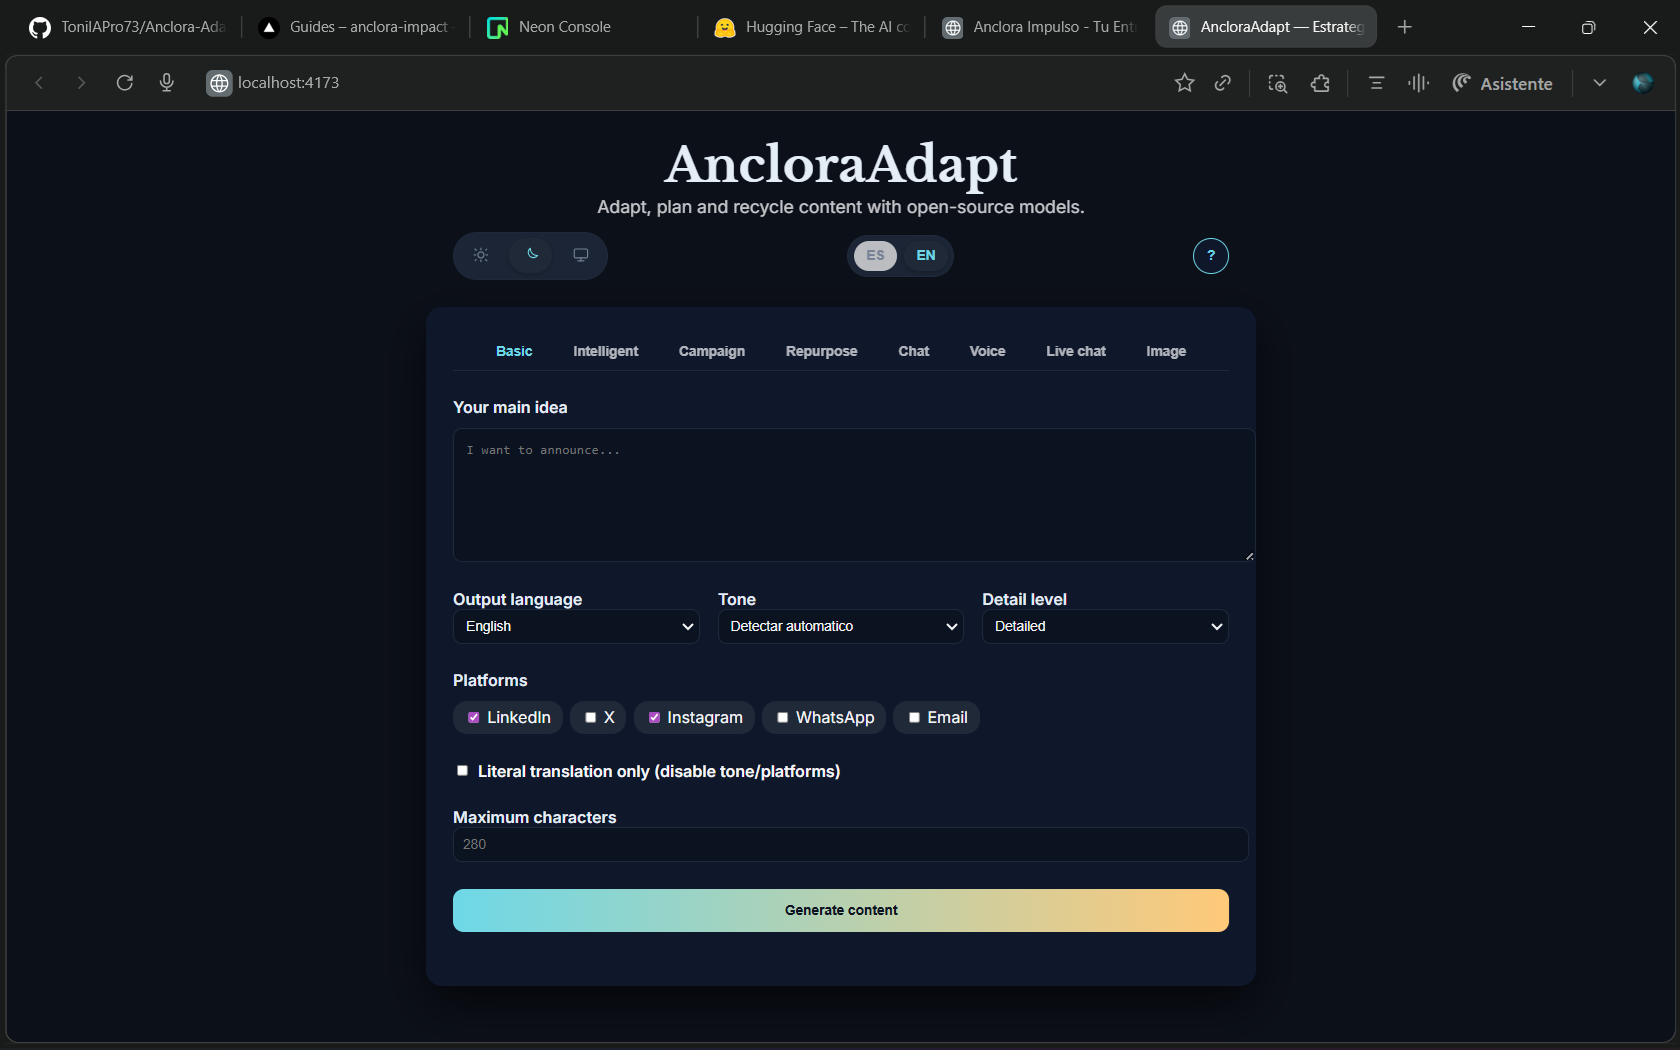
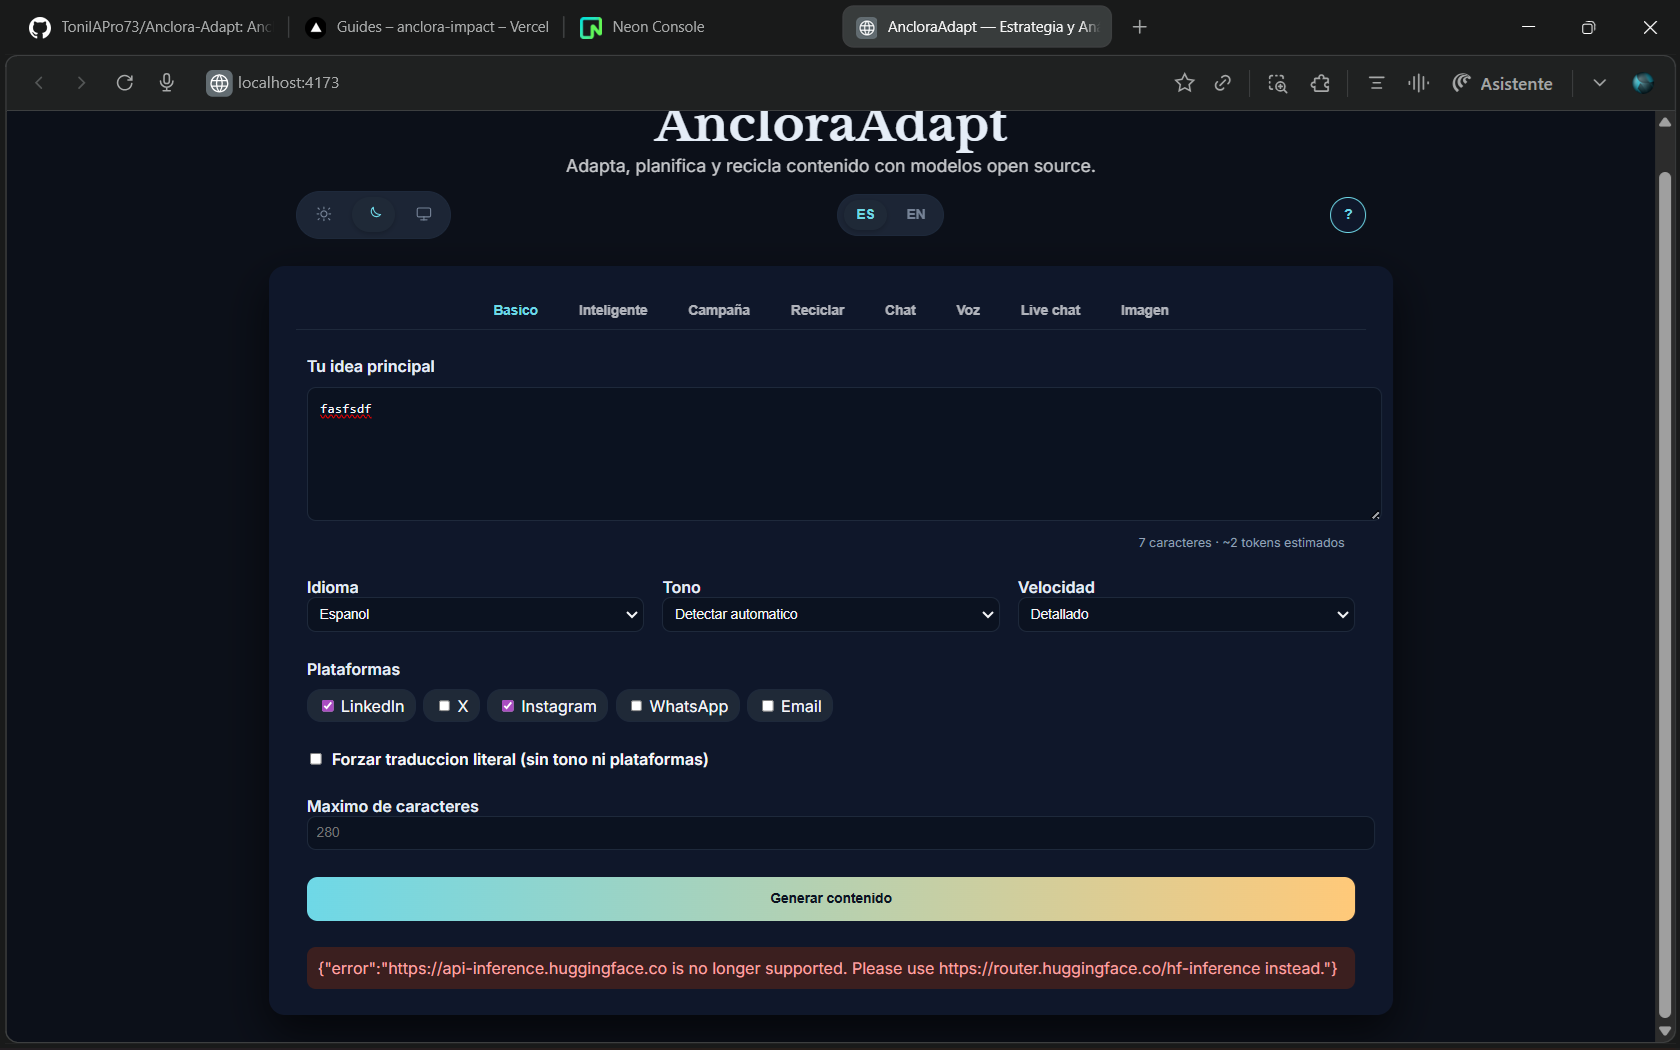
cambios index.tsx

diff --git a/index.tsx b/index.tsx
@@ -3,7 +3,7 @@ import ReactDOM from 'react-dom/client';
 
 const API_KEY = process.env.HF_API_KEY || process.env.API_KEY;
 const HF_BASE_URL = 'https://api-inference.huggingface.co/models';
-const TEXT_MODEL_ID = import.meta.env.VITE_TEXT_MODEL_ID || 'meta-llama/Meta-Llama-3-8B-Instruct';
+const TEXT_MODEL_ID = import.meta.env.VITE_TEXT_MODEL_ID || 'mistralai/Mistral-7B-Instruct-v0.2';
 const IMAGE_MODEL_ID = import.meta.env.VITE_IMAGE_MODEL_ID || 'black-forest-labs/FLUX.1-schnell';
 const TTS_MODEL_ID = import.meta.env.VITE_TTS_MODEL_ID || 'suno/bark-small';
 const STT_MODEL_ID = import.meta.env.VITE_STT_MODEL_ID || 'openai/whisper-large-v3-turbo';
@@ -134,6 +134,14 @@ const structuredOutputExample = `{
     { "platform": "Instagram", "content": "Copys breves y visuales" }
   ]
 }`;
+
+const formatCounterText = (value: string, language: InterfaceLanguage) => {
+  const chars = value.length;
+  const tokens = chars === 0 ? 0 : Math.max(1, Math.round(chars / 4));
+  const charLabel = language === 'es' ? 'caracteres' : 'characters';
+  const tokenLabel = language === 'es' ? 'tokens estimados' : 'estimated tokens';
+  return `${chars} ${charLabel} · ~${tokens} ${tokenLabel}`;
+};
 
 interface GeneratedOutput {
   platform: string;
@@ -666,6 +674,9 @@ const commonStyles: Record<string, React.CSSProperties> = {
     display: 'flex',
     flexDirection: 'column',
     gap: '12px',
+    padding: '0 12px 16px 12px',
+    width: '100%',
+    boxSizing: 'border-box',
   },
   label: {
     fontWeight: 600,
@@ -701,6 +712,9 @@ const commonStyles: Record<string, React.CSSProperties> = {
     display: 'flex',
     flexWrap: 'wrap',
     gap: '20px',
+    padding: '0 12px 16px 12px',
+    width: '100%',
+    boxSizing: 'border-box',
   },
   configGroup: {
     flex: '1 1 240px',
@@ -722,16 +736,18 @@ const commonStyles: Record<string, React.CSSProperties> = {
     padding: '16px',
     borderRadius: '12px',
     border: 'none',
-    background: 'linear-gradient(90deg, var(--azul-claro, #2EAFC4), var(--ambar, #FFC979))',
+    backgroundImage: 'linear-gradient(90deg, var(--azul-claro, #2EAFC4), var(--ambar, #FFC979))',
     fontWeight: 700,
     color: 'var(--button-contrast, #162032)',
     cursor: 'pointer',
+    margin: '0 12px',
   },
   errorMessage: {
     backgroundColor: 'var(--danger-bg, #fdecea)',
     color: 'var(--danger-text, #c0392b)',
     padding: '12px',
     borderRadius: '10px',
+    margin: '0 12px',
   },
   loadingMessage: {
     display: 'flex',
@@ -779,13 +795,15 @@ const commonStyles: Record<string, React.CSSProperties> = {
   chatContainer: {
     border: '1px solid var(--panel-border, #e0e0e0)',
     borderRadius: '12px',
-    padding: '16px',
+    padding: '20px 18px',
     minHeight: '360px',
     overflowY: 'auto',
     display: 'flex',
     flexDirection: 'column',
     gap: '10px',
     backgroundColor: 'var(--panel-bg, #FFFFFF)',
+    width: '100%',
+    boxSizing: 'border-box',
   },
   chatMessage: {
     borderRadius: '14px',
@@ -807,12 +825,18 @@ const commonStyles: Record<string, React.CSSProperties> = {
     marginRight: '40px',
     marginLeft: '4px',
   },
+  chatInputWrapper: {
+    width: '100%',
+    padding: '0 12px 12px 12px',
+    boxSizing: 'border-box',
+    display: 'flex',
+    flexDirection: 'column',
+    gap: '6px',
+  },
   chatInputRow: {
     display: 'flex',
     gap: '10px',
     width: '100%',
-    padding: '0 8px',
-    boxSizing: 'border-box',
     alignItems: 'stretch',
   },
   chatTextInput: {
@@ -832,9 +856,8 @@ const commonStyles: Record<string, React.CSSProperties> = {
     justifyContent: 'flex-end',
     fontSize: '12px',
     color: 'var(--texto, #162032)',
-    opacity: 0.75,
-    marginTop: '6px',
-    paddingRight: '8px',
+    opacity: 0.85,
+    paddingRight: '12px',
   },
   helpButton: {
     width: '40px',
@@ -889,6 +912,13 @@ const commonStyles: Record<string, React.CSSProperties> = {
     margin: 0,
     color: 'var(--texto, #162032)',
     opacity: 0.8,
+  },
+  inputCounter: {
+    alignSelf: 'flex-end',
+    fontSize: '12px',
+    color: 'var(--toggle-inactive-text, #667085)',
+    marginTop: '4px',
+    paddingRight: '12px',
   },
   liveTranscript: {
     border: '1px solid var(--panel-border, #e0e0e0)',
@@ -1004,6 +1034,7 @@ const BasicMode: React.FC<CommonProps> = ({ isLoading, error, generatedOutputs, 
       <section style={commonStyles.section}>
         <label style={commonStyles.label} htmlFor="basic-idea">{copy.ideaLabel}</label>
         <textarea id="basic-idea" style={commonStyles.textarea} value={idea} onChange={e => setIdea(e.target.value)} placeholder={copy.ideaPlaceholder} />
+        <div style={commonStyles.inputCounter}>{formatCounterText(idea, interfaceLanguage)}</div>
       </section>
       <section style={commonStyles.configSection}>
         <div style={commonStyles.configGroup}>
@@ -1118,10 +1149,12 @@ Contexto: ${context || idea}`, base64);
       <section style={commonStyles.section}>
         <label style={commonStyles.label}>{copy.ideaLabel}</label>
         <textarea style={commonStyles.textarea} value={idea} onChange={e => setIdea(e.target.value)} placeholder={copy.ideaPlaceholder} />
+        <div style={commonStyles.inputCounter}>{formatCounterText(idea, interfaceLanguage)}</div>
       </section>
       <section style={commonStyles.section}>
         <label style={commonStyles.label}>{copy.contextLabel}</label>
         <textarea style={commonStyles.textarea} value={context} onChange={e => setContext(e.target.value)} placeholder={copy.contextPlaceholder} />
+        <div style={commonStyles.inputCounter}>{formatCounterText(context, interfaceLanguage)}</div>
       </section>
       <section style={commonStyles.section}>
         <label style={commonStyles.label}>{copy.languageLabel}</label>
@@ -1142,6 +1175,7 @@ Contexto: ${context || idea}`, base64);
           <>
             <input type="file" onChange={handleFileChange} accept="image/*" />
             <textarea style={commonStyles.textarea} value={imagePrompt} onChange={e => setImagePrompt(e.target.value)} placeholder={copy.imagePromptPlaceholder} />
+            <div style={commonStyles.inputCounter}>{formatCounterText(imagePrompt, interfaceLanguage)}</div>
             {imagePreview && <img src={imagePreview} alt="Preview" style={{ width: '100%', borderRadius: '12px' }} />}
           </>
         )}
@@ -1189,10 +1223,12 @@ const CampaignMode: React.FC<CommonProps> = ({ isLoading, error, generatedOutput
       <section style={commonStyles.section}>
         <label style={commonStyles.label}>{copy.ideaLabel}</label>
         <textarea style={commonStyles.textarea} value={idea} onChange={e => setIdea(e.target.value)} placeholder={copy.ideaPlaceholder} />
+        <div style={commonStyles.inputCounter}>{formatCounterText(idea, interfaceLanguage)}</div>
       </section>
       <section style={commonStyles.section}>
         <label style={commonStyles.label}>{copy.contextLabel}</label>
         <textarea style={commonStyles.textarea} value={context} onChange={e => setContext(e.target.value)} placeholder={copy.contextPlaceholder} />
+        <div style={commonStyles.inputCounter}>{formatCounterText(context, interfaceLanguage)}</div>
       </section>
       <section style={commonStyles.section}>
         <label style={commonStyles.label}>{copy.languageLabel}</label>
@@ -1244,10 +1280,12 @@ const RecycleMode: React.FC<CommonProps> = ({ isLoading, error, generatedOutputs
       <section style={commonStyles.section}>
         <label style={commonStyles.label}>{copy.originalLabel}</label>
         <textarea style={commonStyles.textarea} value={inputText} onChange={e => setInputText(e.target.value)} placeholder={copy.originalPlaceholder} />
+        <div style={commonStyles.inputCounter}>{formatCounterText(inputText, interfaceLanguage)}</div>
       </section>
       <section style={commonStyles.section}>
         <label style={commonStyles.label}>{copy.contextLabel}</label>
         <textarea style={commonStyles.textarea} value={context} onChange={e => setContext(e.target.value)} placeholder={copy.contextPlaceholder} />
+        <div style={commonStyles.inputCounter}>{formatCounterText(context, interfaceLanguage)}</div>
       </section>
       <section style={commonStyles.configSection}>
         <div style={commonStyles.configGroup}>
@@ -1288,10 +1326,6 @@ const ChatMode: React.FC<{ interfaceLanguage: InterfaceLanguage; onCopy: (text: 
   const [messages, setMessages] = useState<ChatMessage[]>([]);
   const [current, setCurrent] = useState('');
   const [isLoading, setIsLoading] = useState(false);
-  const charCount = current.length;
-  const tokenEstimate = charCount === 0 ? 0 : Math.max(1, Math.round(charCount / 4));
-  const charLabel = interfaceLanguage === 'es' ? 'caracteres' : 'characters';
-  const tokenLabel = interfaceLanguage === 'es' ? 'tokens estimados' : 'estimated tokens';
 
   const sendMessage = async () => {
     if (!current.trim()) return;
@@ -1331,7 +1365,7 @@ const ChatMode: React.FC<{ interfaceLanguage: InterfaceLanguage; onCopy: (text: 
         <button type="button" style={commonStyles.generateButton} onClick={sendMessage} disabled={isLoading}>{copy.button}</button>
       </div>
       <div style={commonStyles.chatCounters}>
-        <span>{charCount} {charLabel} · ~{tokenEstimate} {tokenLabel}</span>
+        <span>{formatCounterText(current, interfaceLanguage)}</span>
       </div>
     </section>
   );
@@ -1378,6 +1412,7 @@ const TTSMode: React.FC<{ interfaceLanguage: InterfaceLanguage }> = ({ interface
     <section style={commonStyles.section}>
       <label style={commonStyles.label}>{copy.textLabel}</label>
       <textarea style={commonStyles.textarea} value={textToSpeak} onChange={e => setTextToSpeak(e.target.value)} placeholder={copy.textPlaceholder} />
+      <div style={commonStyles.inputCounter}>{formatCounterText(textToSpeak, interfaceLanguage)}</div>
       <div style={commonStyles.configSection}>
         <div style={commonStyles.configGroup}>
           <label style={commonStyles.label}>{copy.languageLabel}</label>
@@ -1516,6 +1551,7 @@ const ImageEditMode: React.FC<{ interfaceLanguage: InterfaceLanguage }> = ({ int
     <section style={commonStyles.section}>
       <label style={commonStyles.label}>{copy.promptLabel}</label>
       <textarea style={commonStyles.textarea} value={prompt} onChange={e => setPrompt(e.target.value)} placeholder={copy.promptPlaceholder} />
+      <div style={commonStyles.inputCounter}>{formatCounterText(prompt, interfaceLanguage)}</div>
       <input type="file" accept="image/*" onChange={handleFileChange} />
       {preview && <img src={preview} alt="preview" style={{ width: '100%', borderRadius: '12px' }} />}
       <button type="button" style={commonStyles.generateButton} onClick={handleGenerate} disabled={isLoading}>
